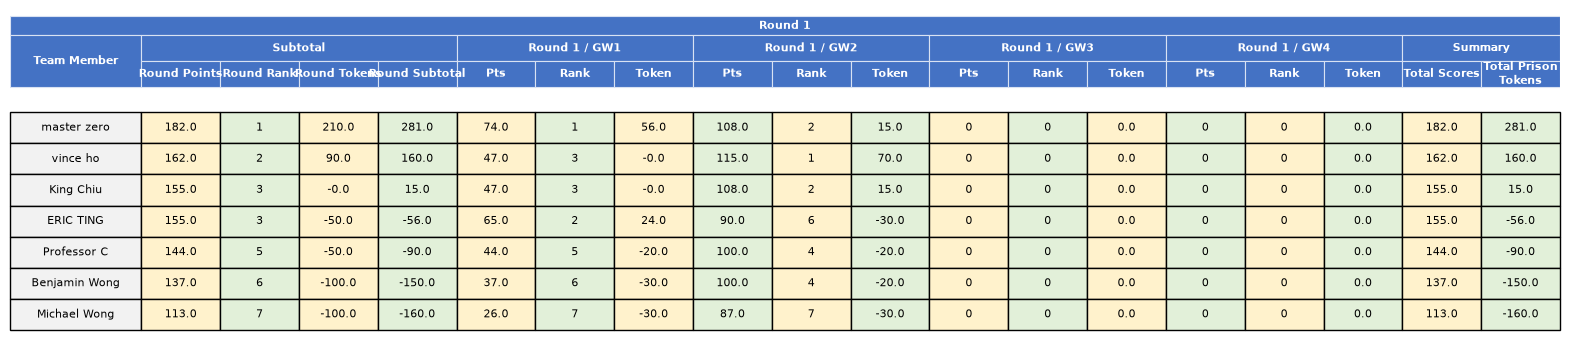
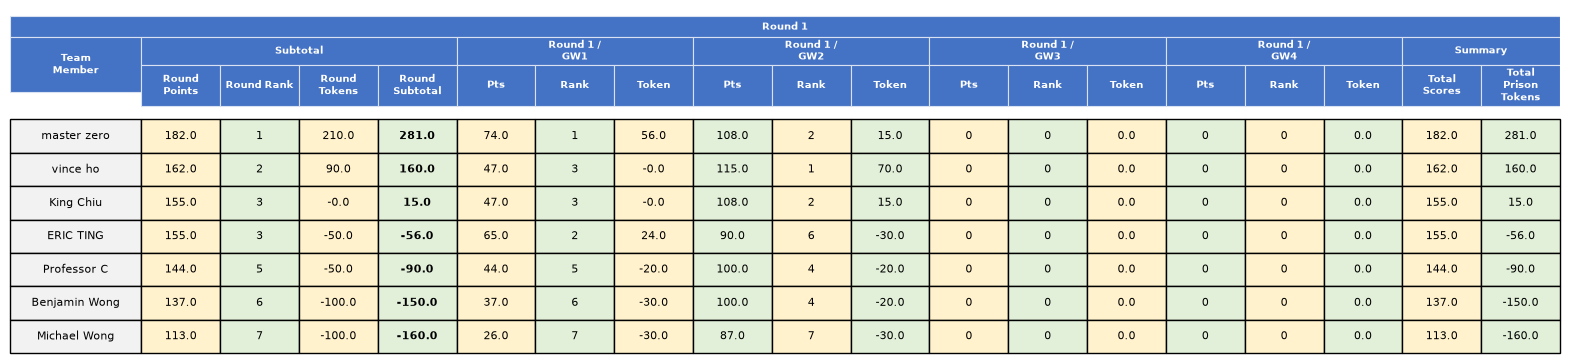
V6 weekly export fix

diff --git a/fpl_api.py b/fpl_api.py
@@ -642,7 +642,7 @@ def dataframe_to_png(df, output_path, title="Weekly Overview"):
         
         # Create figure and axis with more space for the grouped headers.
         header_rows = len(table_headers)
-        figure_height = max(3.2, len(df_display) * 0.38 + (1.5 if is_grouped else 1.0))
+        figure_height = max(3.2, len(df_display) * 0.38 + (1.8 if is_grouped else 1.0))
         fig, ax = plt.subplots(figsize=(20, figure_height))
         ax.axis('tight')
         ax.axis('off')
@@ -680,7 +680,8 @@ def dataframe_to_png(df, output_path, title="Weekly Overview"):
                     cell.set_facecolor('#FFF2CC')
                 else:
                     cell.set_facecolor('#E2F0D9')
-                cell.set_text_props(ha='center', va='center')
+                is_round_subtotal = is_grouped and df_display.columns[j][2] == 'Round Subtotal'
+                cell.set_text_props(ha='center', va='center', weight='bold' if is_round_subtotal else 'normal')
 
         if is_grouped:
             header_color = '#4472C4'
@@ -700,13 +701,13 @@ def dataframe_to_png(df, output_path, title="Weekly Overview"):
                 ax.text(
                     x + width / 2,
                     y + height / 2,
-                    '\n'.join(wrap(label, width=14)),
+                    '\n'.join(wrap(label, width=10)),
                     transform=ax.transAxes,
                     ha='center',
                     va='center',
                     color='white',
                     fontweight='bold',
-                    fontsize=8,
+                    fontsize=7,
                 )
 
             add_header_cell(0, 0.92, 1, 0.06, table_headers[0][0])
@@ -720,7 +721,7 @@ def dataframe_to_png(df, output_path, title="Weekly Overview"):
                     group,
                 )
             for column_index, column in enumerate(ordered_columns[1:], start=1):
-                add_header_cell(boundaries[column_index], 0.76, normalized_widths[column_index], 0.08, str(column[2]))
+                add_header_cell(boundaries[column_index], 0.72, normalized_widths[column_index], 0.12, str(column[2]))
         else:
             for row_index in range(header_rows):
                 for column_index in range(len(df_display.columns)):
